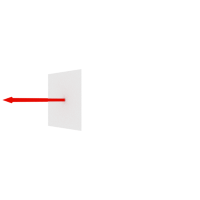
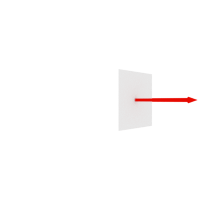
updateAllImages funguje..hnus..ale funguje

Changed region(s): [[0.57, 0.33, 0.99, 0.66], [0.0, 0.36, 0.42, 0.66]]

diff --git a/src/java/gui/sfs/EditMarkerScreen.java b/src/java/gui/sfs/EditMarkerScreen.java
@@ -39,8 +39,27 @@ public class EditMarkerScreen extends JDialog {
     }
 
     public static void main(String [] args){
-        EditMarkerScreen editMarkerScreen = new EditMarkerScreen();
-        editMarkerScreen.startFrame();
+        double angle = Math.toRadians(0.0);
+        double dir = Math.toRadians(250.0);
+
+        double z = Math.sqrt((Math.tan(angle)*Math.tan(angle))/(1+Math.tan(angle)*Math.tan(angle)));
+        double x = Math.sqrt(1/(Math.tan(angle)*Math.tan(angle) + 1 + Math.tan(dir)*Math.tan(dir) +
+                Math.tan(dir)*Math.tan(dir)*Math.tan(angle)*Math.tan(angle)
+        ));
+        if(dir >= Math.toRadians(90.0) && dir <= Math.toRadians(270.0)) {
+            x *= -1;
+        }
+        double y = Math.tan(dir)*x;
+
+        x = 127.5*(x+1);
+        y = 127.5*(y+1);
+        z = 127.5*(z+1);
+
+        System.out.println(x + " " + y + " " + z);
+        double k = Math.sqrt(x*x + y*y + z*z);
+        System.out.println(k);
+        /*EditMarkerScreen editMarkerScreen = new EditMarkerScreen();
+        editMarkerScreen.startFrame();*/
     }
 
     public void startFrame(){
@@ -101,8 +120,8 @@ public class EditMarkerScreen extends JDialog {
                     marker.setName(nameArea.getText());
                 }
                 //  Vypocteni x y a z pro marker
-                int angle = angleSlider.getValue();
-                int dir = directionSlider.getValue();
+                /*int angle = angleSlider.getValue();
+                int dir = directionSlider.getValue();*/
 
                 // stary segment
                 /*double x =(Math.cos(angle)*Math.sin(dir));
@@ -113,17 +132,24 @@ public class EditMarkerScreen extends JDialog {
                 z = 127.5*(z+1);*/
 
                 // novy segment
+                double angle = Math.toRadians(angleSlider.getValue());
+                double dir = Math.toRadians(directionSlider.getValue());
+
+                double z = Math.sqrt((Math.tan(angle)*Math.tan(angle))/(1+Math.tan(angle)*Math.tan(angle)));
                 double x = Math.sqrt(1/(Math.tan(angle)*Math.tan(angle) + 1 + Math.tan(dir)*Math.tan(dir) +
                         Math.tan(dir)*Math.tan(dir)*Math.tan(angle)*Math.tan(angle)
                 ));
-                if((dir <= 90 && dir >= 0) || (dir <= 360 && dir >= 270)) {
+                if(dir >= Math.toRadians(90.0) && dir <= Math.toRadians(270.0)) {
                     x *= -1;
                 }
                 double y = Math.tan(dir)*x;
-                double z = Math.sqrt(1 - x*x - y*y);
+
                 x = 127.5*(x+1);
                 y = 127.5*(y+1);
                 z = 127.5*(z+1);
+
+                //System.out.println(x + " " + y + " " + z);
+
                 //*******************
 
                 marker.setX((int)x);
@@ -230,7 +256,7 @@ public class EditMarkerScreen extends JDialog {
             Graphics2D g2d = (Graphics2D)g;
             g2d.drawImage(getBackgroundDirectionImage(),8,13,this);
             g2d.translate(this.getWidth()/2,this.getHeight()/2);
-            g2d.rotate(Math.toRadians(directionSlider.getValue()) );
+            g2d.rotate(-Math.toRadians(directionSlider.getValue()) );
             g2d.translate(-getDirectionImage().getWidth(this) / 2, -getDirectionImage().getHeight(this) / 2);
             g2d.drawImage(getDirectionImage(),0,0,this);
 
@@ -254,9 +280,6 @@ public class EditMarkerScreen extends JDialog {
             g.translate(8,13);
             g.drawImage(getBackgroundAngleImage(),0,0,this);
             if(directionSlider.getValue() > 90 && directionSlider.getValue() <= 270){
-                g.drawImage(getBackgroundAngleImage(),0,0,this);
-                //angleImagePanel.switchToLeftAngle();
-            } else {
                 if(backgroundDirectionImageR == null){
                     AffineTransform tx = AffineTransform.getScaleInstance(-1, 1);
                     tx.translate(-getBackgroundAngleImage().getWidth(null), 0);
@@ -264,6 +287,10 @@ public class EditMarkerScreen extends JDialog {
                     backgroundDirectionImageR = op.filter(getBackgroundAngleImage(), null);
                 }
                 g.drawImage(backgroundDirectionImageR,0,0,this);
+                //angleImagePanel.switchToLeftAngle();
+            } else {
+                g.drawImage(getBackgroundAngleImage(),0,0,this);
+
                 //angleImagePanel.switchToRightAngle();
             }
 
@@ -272,13 +299,6 @@ public class EditMarkerScreen extends JDialog {
             int length = 150;
 
             if(directionSlider.getValue() > 90 && directionSlider.getValue() <= 270){
-                g.rotate(Math.toRadians(-angle+45), 0, 200);
-                g.drawImage(getAngleImage(),0,0,this);
-
-                g.rotate(Math.toRadians(angle-45), 0, 200);
-                //angleImagePanel.switchToLeftAngle();
-
-            } else {
                 g.rotate(Math.toRadians(angle-45), 200, 200);
                 if(angleImageR == null){
 
@@ -290,6 +310,14 @@ public class EditMarkerScreen extends JDialog {
                 g.drawImage(angleImageR,0,0,this);
 
                 g.rotate(Math.toRadians(-angle+45), 200, 200);
+                //angleImagePanel.switchToLeftAngle();
+
+            } else {
+                g.rotate(Math.toRadians(-angle+45), 0, 200);
+                g.drawImage(getAngleImage(),0,0,this);
+
+                g.rotate(Math.toRadians(angle-45), 0, 200);
+
                 //angleImagePanel.switchToRightAngle();
             }
 

diff --git a/src/java/gui/ImagePanel.java b/src/java/gui/ImagePanel.java
@@ -13,16 +13,16 @@ import java.awt.image.BufferedImage;
 public abstract class ImagePanel extends JPanel {
     double scale;
     double initScale = 0.0;
-    int posX = 0;
-    int posY = 0;
+    static int posX = 0;
+    static int posY = 0;
     int squareSize = 20;
     double imgPosX = 0;
     double imgPosY = 0;
     double initX = 0;
     double initY = 0;
 
-    int mouseX = 0;
-    int mouseY = 0;
+    static int mouseX = 0;
+    static int mouseY = 0;
 
     JLabel imageLabel;
     private int highlightedSquare = -1;

diff --git a/src/java/gui/MainScreen.java b/src/java/gui/MainScreen.java
@@ -31,7 +31,7 @@ public class MainScreen extends JFrame {
     JPanel mainPanel,leftBoxPanel;
     Session session;
 
-    private final boolean updateAllImages = false;
+    private final boolean updateAllImages = true;
 
 
     JTabbedPane tabbedPanel;
